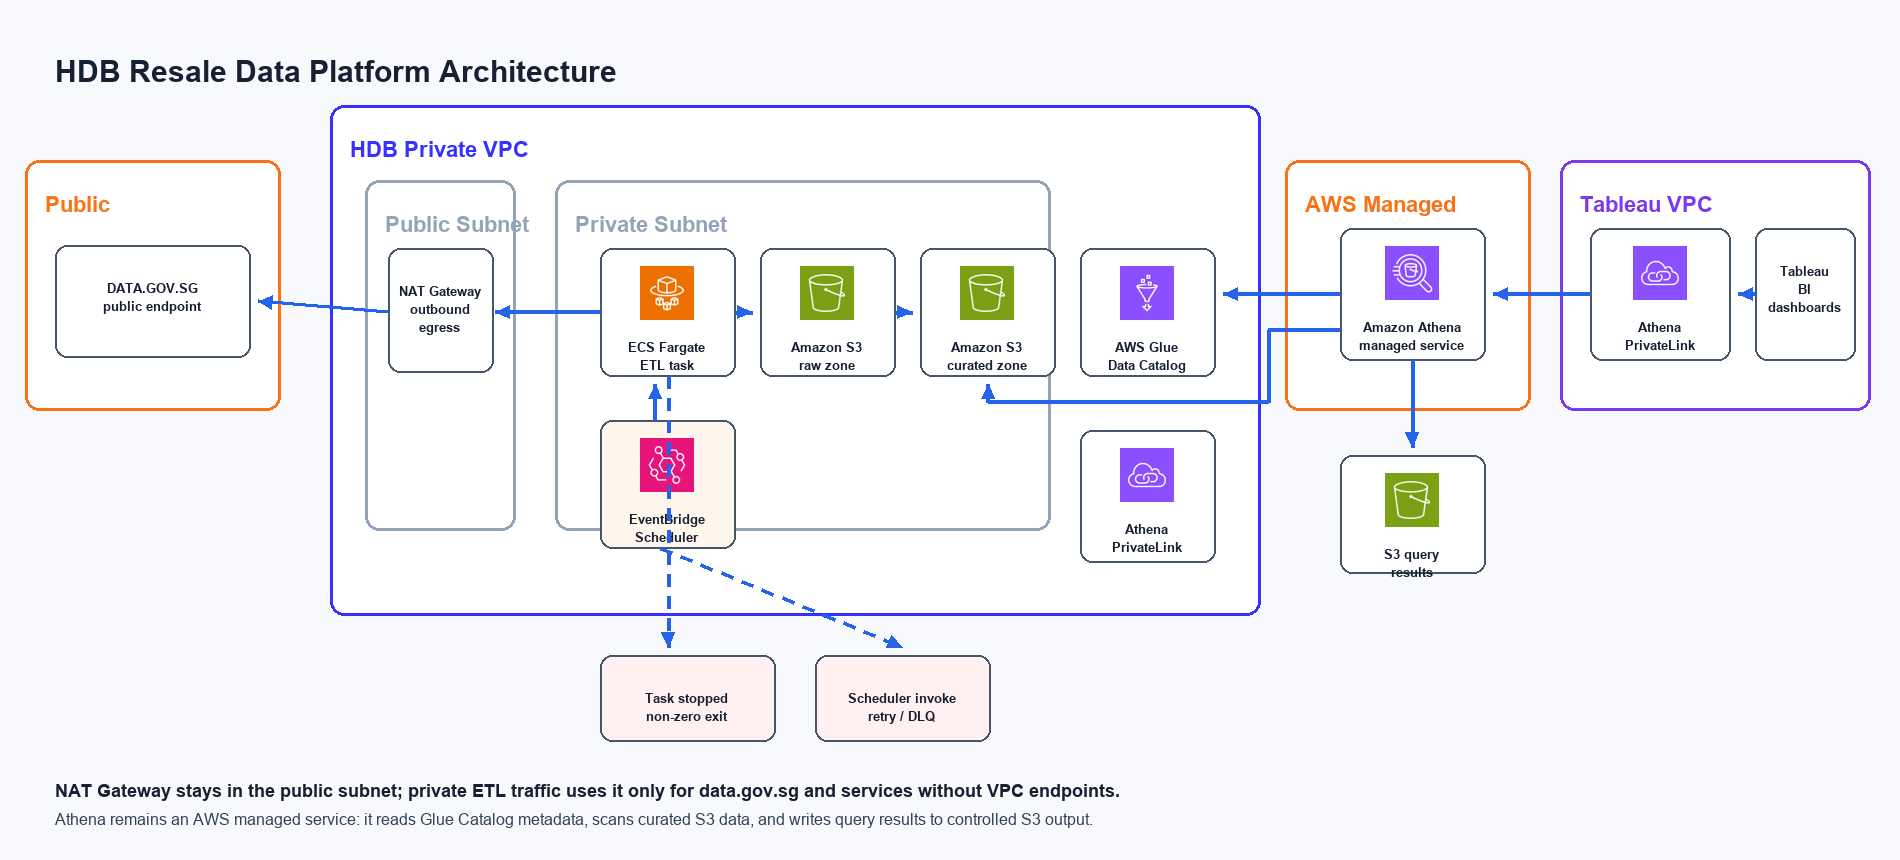
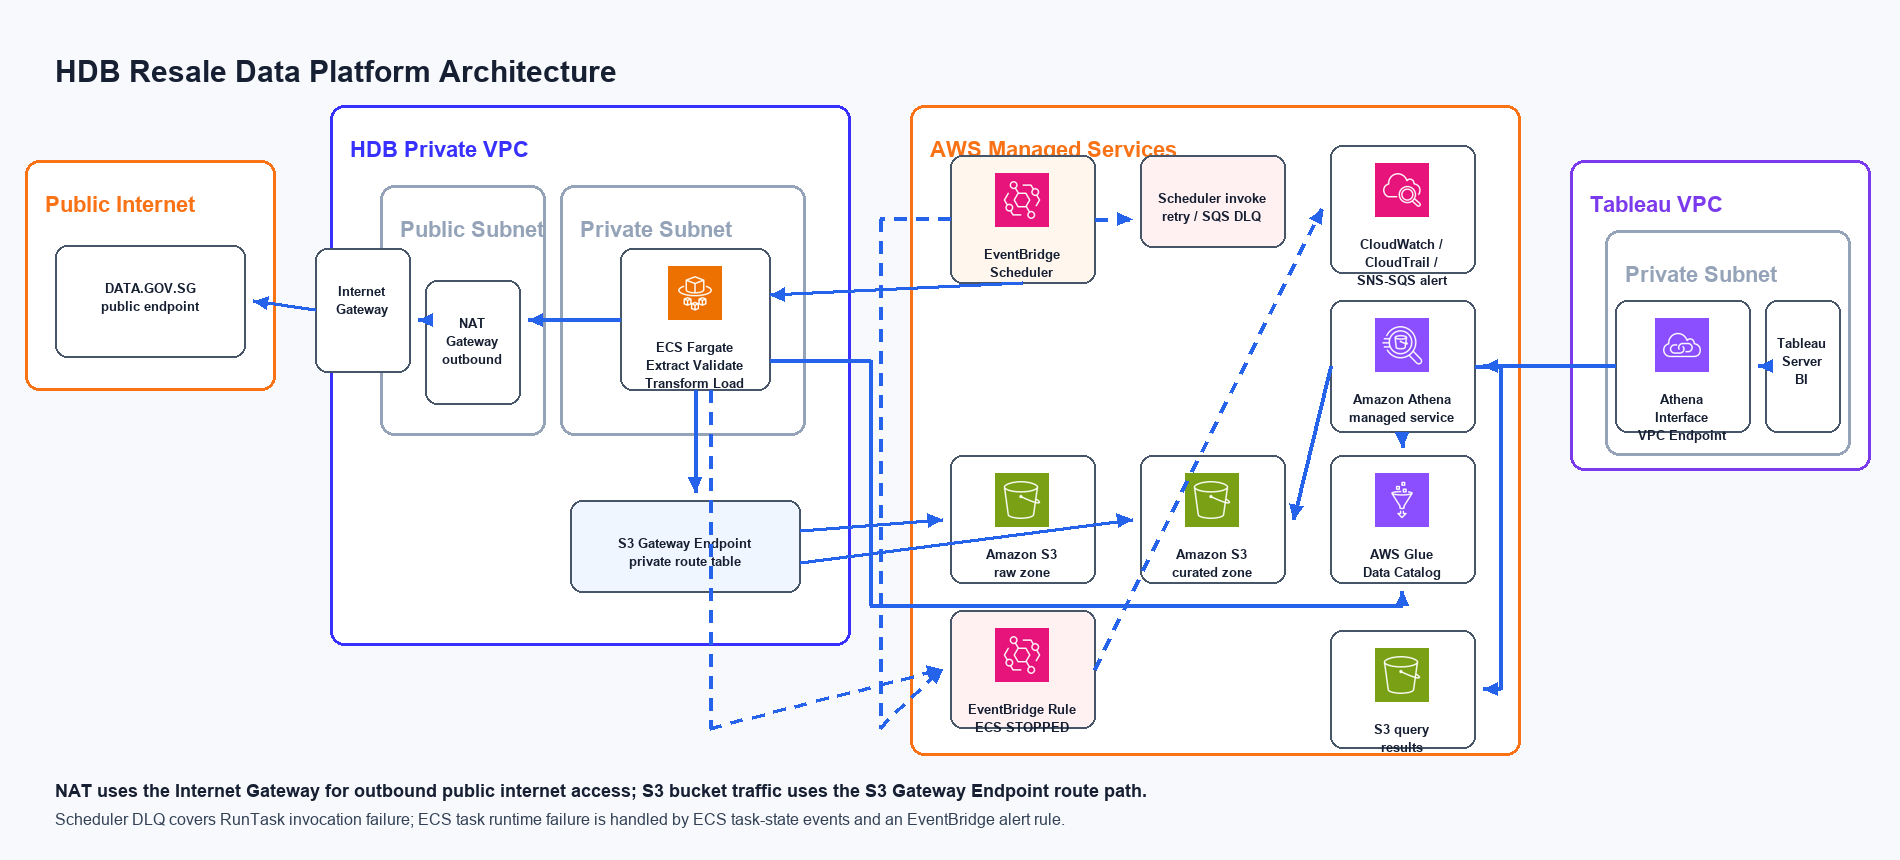
Correct managed service architecture boundaries

diff --git a/src/hdb_resale_etl/architecture_diagrams.py b/src/hdb_resale_etl/architecture_diagrams.py
@@ -174,45 +174,53 @@ def _overview_diagram() -> Diagram:
     return Diagram(
         title="HDB Resale Data Platform Architecture",
         bands=[
-            Band("Public", 25, 160, 255, 250, "#f97316", "#ffffff"),
-            Band("HDB Private VPC", 330, 105, 930, 510, "#3730ff", "#ffffff"),
-            Band("Public Subnet", 365, 180, 150, 350, "#94a3b8", "#ffffff"),
-            Band("Private Subnet", 555, 180, 495, 350, "#94a3b8", "#ffffff"),
-            Band("AWS Managed", 1285, 160, 245, 250, "#f97316", "#ffffff"),
-            Band("Tableau VPC", 1560, 160, 310, 250, "#7c3aed", "#ffffff"),
+            Band("Public Internet", 25, 160, 250, 230, "#f97316", "#ffffff"),
+            Band("HDB Private VPC", 330, 105, 520, 540, "#3730ff", "#ffffff"),
+            Band("Public Subnet", 380, 185, 165, 250, "#94a3b8", "#ffffff"),
+            Band("Private Subnet", 560, 185, 245, 250, "#94a3b8", "#ffffff"),
+            Band("AWS Managed Services", 910, 105, 610, 650, "#f97316", "#ffffff"),
+            Band("Tableau VPC", 1570, 160, 300, 310, "#7c3aed", "#ffffff"),
+            Band("Private Subnet", 1605, 230, 245, 225, "#94a3b8", "#ffffff"),
         ],
         nodes=[
-            Node("datagov", "DATA.GOV.SG\npublic endpoint", 55, 245, w=195, h=112, fill="#ffffff"),
-            Node("nat", "NAT Gateway\noutbound egress", 388, 248, w=105, h=124, fill="#ffffff"),
-            Node("scheduler", "EventBridge\nScheduler", 600, 420, icon="amazon-eventbridge.png", w=135, h=128, fill=COLORS["schedule"]),
-            Node("fargate", "ECS Fargate\nETL task", 600, 248, icon="aws-fargate.png", w=135, h=128),
-            Node("s3raw", "Amazon S3\nraw zone", 760, 248, icon="amazon-s3.png", w=135, h=128),
-            Node("s3curated", "Amazon S3\ncurated zone", 920, 248, icon="amazon-s3.png", w=135, h=128),
-            Node("glue", "AWS Glue\nData Catalog", 1080, 248, icon="aws-glue.png", w=135, h=128),
-            Node("vpce_hdb", "Athena\nPrivateLink", 1080, 430, icon="aws-privatelink.png", w=135, h=132),
-            Node("athena", "Amazon Athena\nmanaged service", 1340, 228, icon="amazon-athena.png", w=145, h=132),
-            Node("results", "S3 query\nresults", 1340, 455, icon="amazon-s3.png", w=145, h=118),
-            Node("vpce_tableau", "Athena\nPrivateLink", 1590, 228, icon="aws-privatelink.png", w=140, h=132),
-            Node("tableau", "Tableau\nBI dashboards", 1755, 228, w=100, h=132, fill="#ffffff"),
-            Node("task_failure", "Task stopped\nnon-zero exit", 600, 655, w=175, h=86, fill=COLORS["failure"]),
-            Node("scheduler_dlq", "Scheduler invoke\nretry / DLQ", 815, 655, w=175, h=86, fill=COLORS["failure"]),
+            Node("datagov", "DATA.GOV.SG\npublic endpoint", 55, 245, w=190, h=112, fill="#ffffff"),
+            Node("igw", "Internet\nGateway", 315, 248, w=95, h=124, fill="#ffffff"),
+            Node("nat", "NAT Gateway\noutbound egress", 425, 280, w=95, h=124, fill="#ffffff"),
+            Node("fargate", "ECS Fargate\nExtract Validate\nTransform Load", 620, 248, icon="aws-fargate.png", w=150, h=142),
+            Node("s3_endpoint", "S3 Gateway Endpoint\nprivate route table", 570, 500, w=230, h=92, fill=COLORS["private_fill"]),
+            Node("scheduler", "EventBridge\nScheduler", 950, 155, icon="amazon-eventbridge.png", w=145, h=128, fill=COLORS["schedule"]),
+            Node("s3raw", "Amazon S3\nraw zone", 950, 455, icon="amazon-s3.png", w=145, h=128),
+            Node("s3curated", "Amazon S3\ncurated zone", 1140, 455, icon="amazon-s3.png", w=145, h=128),
+            Node("glue", "AWS Glue\nData Catalog", 1330, 455, icon="aws-glue.png", w=145, h=128),
+            Node("athena", "Amazon Athena\nmanaged service", 1330, 300, icon="amazon-athena.png", w=145, h=132),
+            Node("results", "S3 query\nresults", 1330, 630, icon="amazon-s3.png", w=145, h=118),
+            Node("task_events", "EventBridge Rule\nECS STOPPED", 950, 610, icon="amazon-eventbridge.png", w=145, h=118, fill=COLORS["failure"]),
+            Node("ops", "CloudWatch /\nCloudTrail /\nSNS-SQS alert", 1330, 145, icon="amazon-cloudwatch.png", w=145, h=128),
+            Node("scheduler_dlq", "Scheduler invoke\nretry / SQS DLQ", 1140, 155, w=145, h=92, fill=COLORS["failure"]),
+            Node("vpce_tableau", "Athena Interface\nVPC Endpoint ENI", 1615, 300, icon="aws-privatelink.png", w=135, h=132),
+            Node("tableau", "Tableau Server\nBI dashboards", 1765, 300, w=75, h=132, fill="#ffffff"),
         ],
         arrows=[
-            ([(600, 312), (495, 312)], False),
-            ([(388, 312), (258, 301)], False),
-            ([(735, 312), (752, 312)], False),
-            ([(895, 312), (912, 312)], False),
-            ([(655, 420), (655, 384)], False),
-            ([(1340, 294), (1223, 294)], False),
-            ([(1340, 330), (1268, 330), (1268, 402), (988, 402), (988, 384)], False),
-            ([(1412, 360), (1412, 447)], False),
-            ([(1590, 294), (1493, 294)], False),
-            ([(1755, 294), (1738, 294)], False),
-            ([(668, 376), (668, 647)], True),
-            ([(660, 548), (902, 647)], True),
+            ([(620, 320), (528, 320)], False),
+            ([(425, 320), (418, 320)], False),
+            ([(315, 310), (253, 301)], False),
+            ([(1022, 283), (770, 295)], False),
+            ([(695, 390), (695, 492)], False),
+            ([(800, 530), (942, 519)], False),
+            ([(800, 562), (1132, 519)], False),
+            ([(770, 360), (870, 360), (870, 605), (1402, 605), (1402, 591)], False),
+            ([(1615, 366), (1483, 366)], False),
+            ([(1402, 432), (1402, 447)], False),
+            ([(1330, 366), (1293, 519)], False),
+            ([(1475, 366), (1500, 366), (1500, 689), (1483, 689)], False),
+            ([(1765, 366), (1758, 366)], False),
+            ([(710, 390), (710, 728), (942, 669)], True),
+            ([(950, 219), (880, 219), (880, 728), (942, 669)], True),
+            ([(1095, 219), (1132, 219)], True),
+            ([(1095, 669), (1322, 209)], True),
         ],
-        footer_title="NAT Gateway stays in the public subnet; private ETL traffic uses it only for data.gov.sg and services without VPC endpoints.",
-        footer_note="Athena remains an AWS managed service: it reads Glue Catalog metadata, scans curated S3 data, and writes query results to controlled S3 output.",
+        footer_title="NAT uses the Internet Gateway for outbound public internet access; S3 bucket traffic uses the S3 Gateway Endpoint route path.",
+        footer_note="Scheduler DLQ covers RunTask invocation failure; ECS task runtime failure is handled by ECS task-state events and an EventBridge alert rule.",
     )
 
 

diff --git a/README.md b/README.md
@@ -140,14 +140,22 @@ src/hdb_resale_etl/architecture_diagrams.py
 
 The architecture covers:
 
-- A single left-to-right view from public data.gov.sg through the HDB private VPC, AWS managed Athena, and the Tableau VPC.
-- EventBridge Scheduler triggering ECS/Fargate RunTask in a private subnet, with Scheduler retry/DLQ for target invocation failures.
-- ECS task runtime failure handling through ECS task state change events and an EventBridge alert or failure-handler rule.
-- Batch ingestion from public data.gov.sg with NAT Gateway in a public subnet for public internet traffic to data.gov.sg and AWS services without configured VPC endpoints.
-- Raw, curated, and Athena query-result storage on S3.
-- Athena reading Glue Catalog metadata separately from scanning curated S3 data, and writing results to a controlled S3 result location.
-- Tableau on AWS using an Athena Interface Endpoint and Athena driver, with Athena remaining an AWS managed service outside the VPC.
-- Security, scalability, performance considerations, and AWS Architecture Icons in the final PNG diagram.
+- AWS Managed Services:
+  - EventBridge Scheduler for scheduled ECS/Fargate `RunTask` invocation.
+  - Amazon S3 raw zone, curated zone, and Athena query-results location.
+  - AWS Glue Data Catalog for table and partition metadata, updated by the Fargate ETL task through the Glue API.
+  - Amazon Athena as the managed query service, reading Glue metadata, scanning curated S3 data, and writing query results to S3.
+  - CloudWatch, CloudTrail, and alerting targets for observability, audit, and failed-task notifications.
+- HDB Private VPC:
+  - Public subnet with NAT Gateway and an Internet Gateway attached to the VPC for controlled outbound internet access to data.gov.sg and AWS services without VPC endpoints.
+  - Private subnet with the ECS Fargate ETL task, which extracts from data.gov.sg, writes raw files, validates and transforms data, writes curated outputs, and updates Glue Catalog metadata.
+  - S3 Gateway Endpoint associated with the private route table so Fargate can access S3 without routing S3 traffic through NAT.
+- Tableau VPC:
+  - Private subnet hosting Tableau Server.
+  - Athena Interface VPC Endpoint ENI used by Tableau to reach Athena privately.
+- Failure handling:
+  - EventBridge Scheduler retry policy and SQS DLQ cover Scheduler target invocation failures.
+  - ECS task runtime failures are detected through ECS task-state change events, routed through an EventBridge rule to CloudWatch/SNS/SQS alerting or a failure handler.
 
 ## Future Improvements
 

diff --git a/architecture/architecture_notes.md b/architecture/architecture_notes.md
@@ -15,12 +15,11 @@ The ingestion design supports scheduled batch pulls from data.gov.sg, including 
 - EventBridge Scheduler triggers ECS/Fargate `RunTask` monthly or on demand.
 - ECS Fargate runs the Python pipeline in a private subnet using a task ENI.
 - Public internet traffic to data.gov.sg and AWS services without configured VPC endpoints uses controlled outbound egress: private Fargate task -> private route table -> NAT Gateway in a public subnet -> Internet Gateway.
-- S3 traffic uses an S3 Gateway Endpoint where applicable, avoiding NAT for S3 access.
-- Secrets Manager access uses an Interface Endpoint ENI in the private subnet.
+- S3 traffic uses an S3 Gateway Endpoint associated with the private route table, avoiding NAT for S3 access while keeping S3 buckets outside the VPC.
 - In a production private-subnet setup, additional interface endpoints can be added for ECR API, ECR DKR, CloudWatch Logs, Glue, KMS, and STS to reduce NAT dependency.
 - Raw files are written to an immutable S3 raw zone.
-- Cleaned, transformed, failed, and hashed outputs are written to curated S3 prefixes.
-- Glue Data Catalog stores schemas and partitions for downstream Athena queries.
+- The Fargate task reads raw files, performs validation and transformation, and writes cleaned, transformed, failed, and hashed outputs to curated S3 prefixes.
+- The Fargate task updates Glue Data Catalog tables and partitions through the Glue API for downstream Athena queries.
 - CloudWatch and CloudTrail provide operational logs and audit records.
 - EventBridge Scheduler retry and DLQ handle failures to invoke the ECS `RunTask` target.
 - ECS task runtime failures are handled separately through ECS task state change events, for example a STOPPED non-zero-exit task triggering an EventBridge rule and SNS/SQS alert or failure handler.
@@ -37,7 +36,7 @@ The exploitation design supports Tableau on AWS using the Athena driver.
 - Athena writes query results to a controlled Amazon S3 result bucket or prefix. The Athena workgroup should enforce the result location, encryption, and lifecycle policy.
 - Lake Formation and IAM govern table, column, and S3 permissions.
 - Athena emits query metrics to CloudWatch.
-- CloudTrail is treated as a cross-cutting audit capability for Athena, Glue, S3, and Lake Formation API activity.
+- CloudTrail is treated as a cross-cutting audit capability for Athena, Glue, S3, EventBridge, ECS, and Lake Formation API activity.
 
 ## Security, Scalability, and Performance
 
